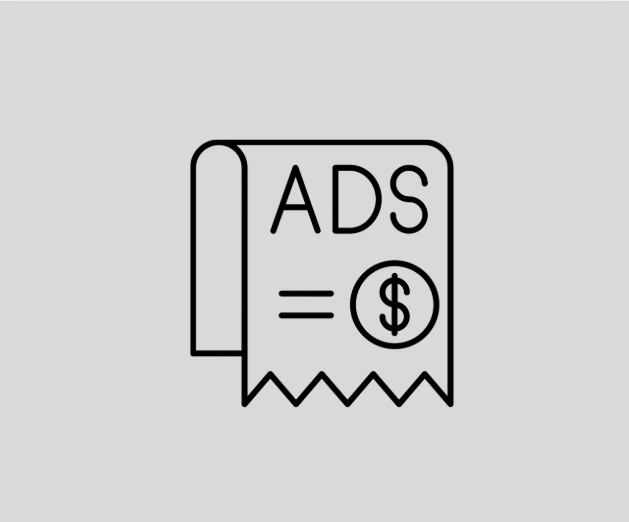
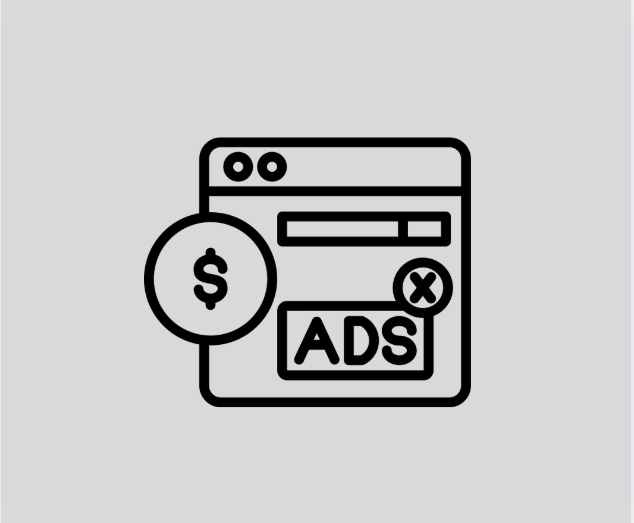
t

Changed region(s): [[0.2114, 0.2452, 0.7552, 0.7969], [0.9968, 0.0, 1.0, 0.0613], [0.9968, 0.9808, 1.0, 1.0]]

diff --git a/index.html b/index.html
@@ -70,7 +70,7 @@
                     <br>
                     <hr>
 
-                    <p class="about-text">Hi, I'm Johnson – a results-driven Digital Marketing Specialist and Full Stack Developer with 8+ years of experience. I bridge the gap between marketing goals and technical execution to drive business growth, user engagement, and digital transformation.</p>
+                    <p class="about-text">Hi, I'm Johnson – a results-driven Digital Marketing Specialist and Full Stack Developer with 8+ years of experience. I bridge the gap between marketing goals and technical execution.</p>
                     
                     <div class="row mt-4">
                         <div class="col-md-6">
